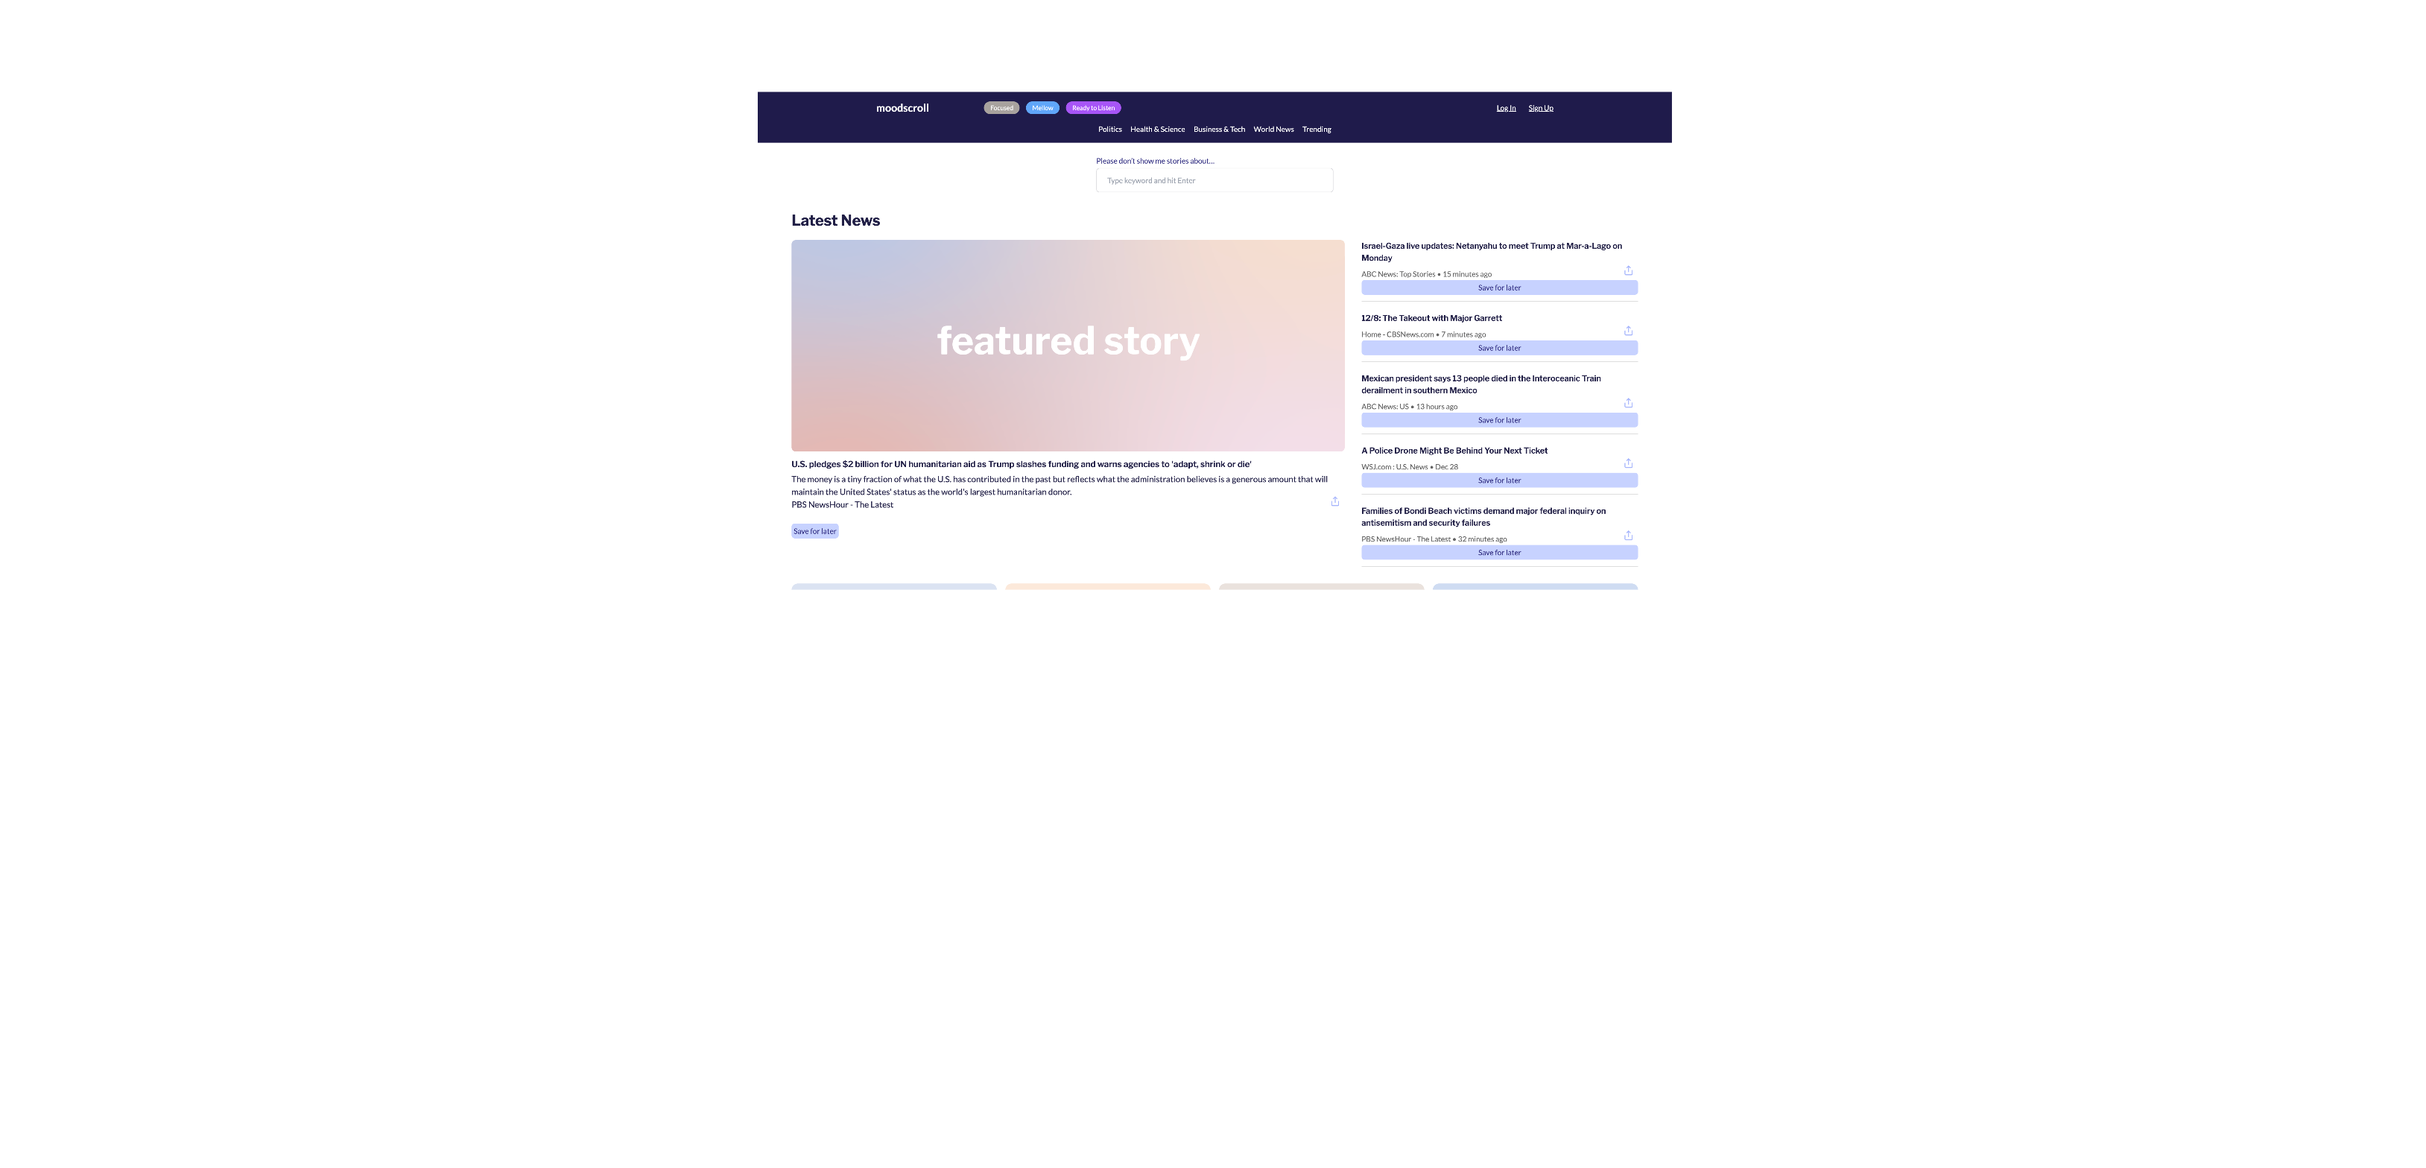
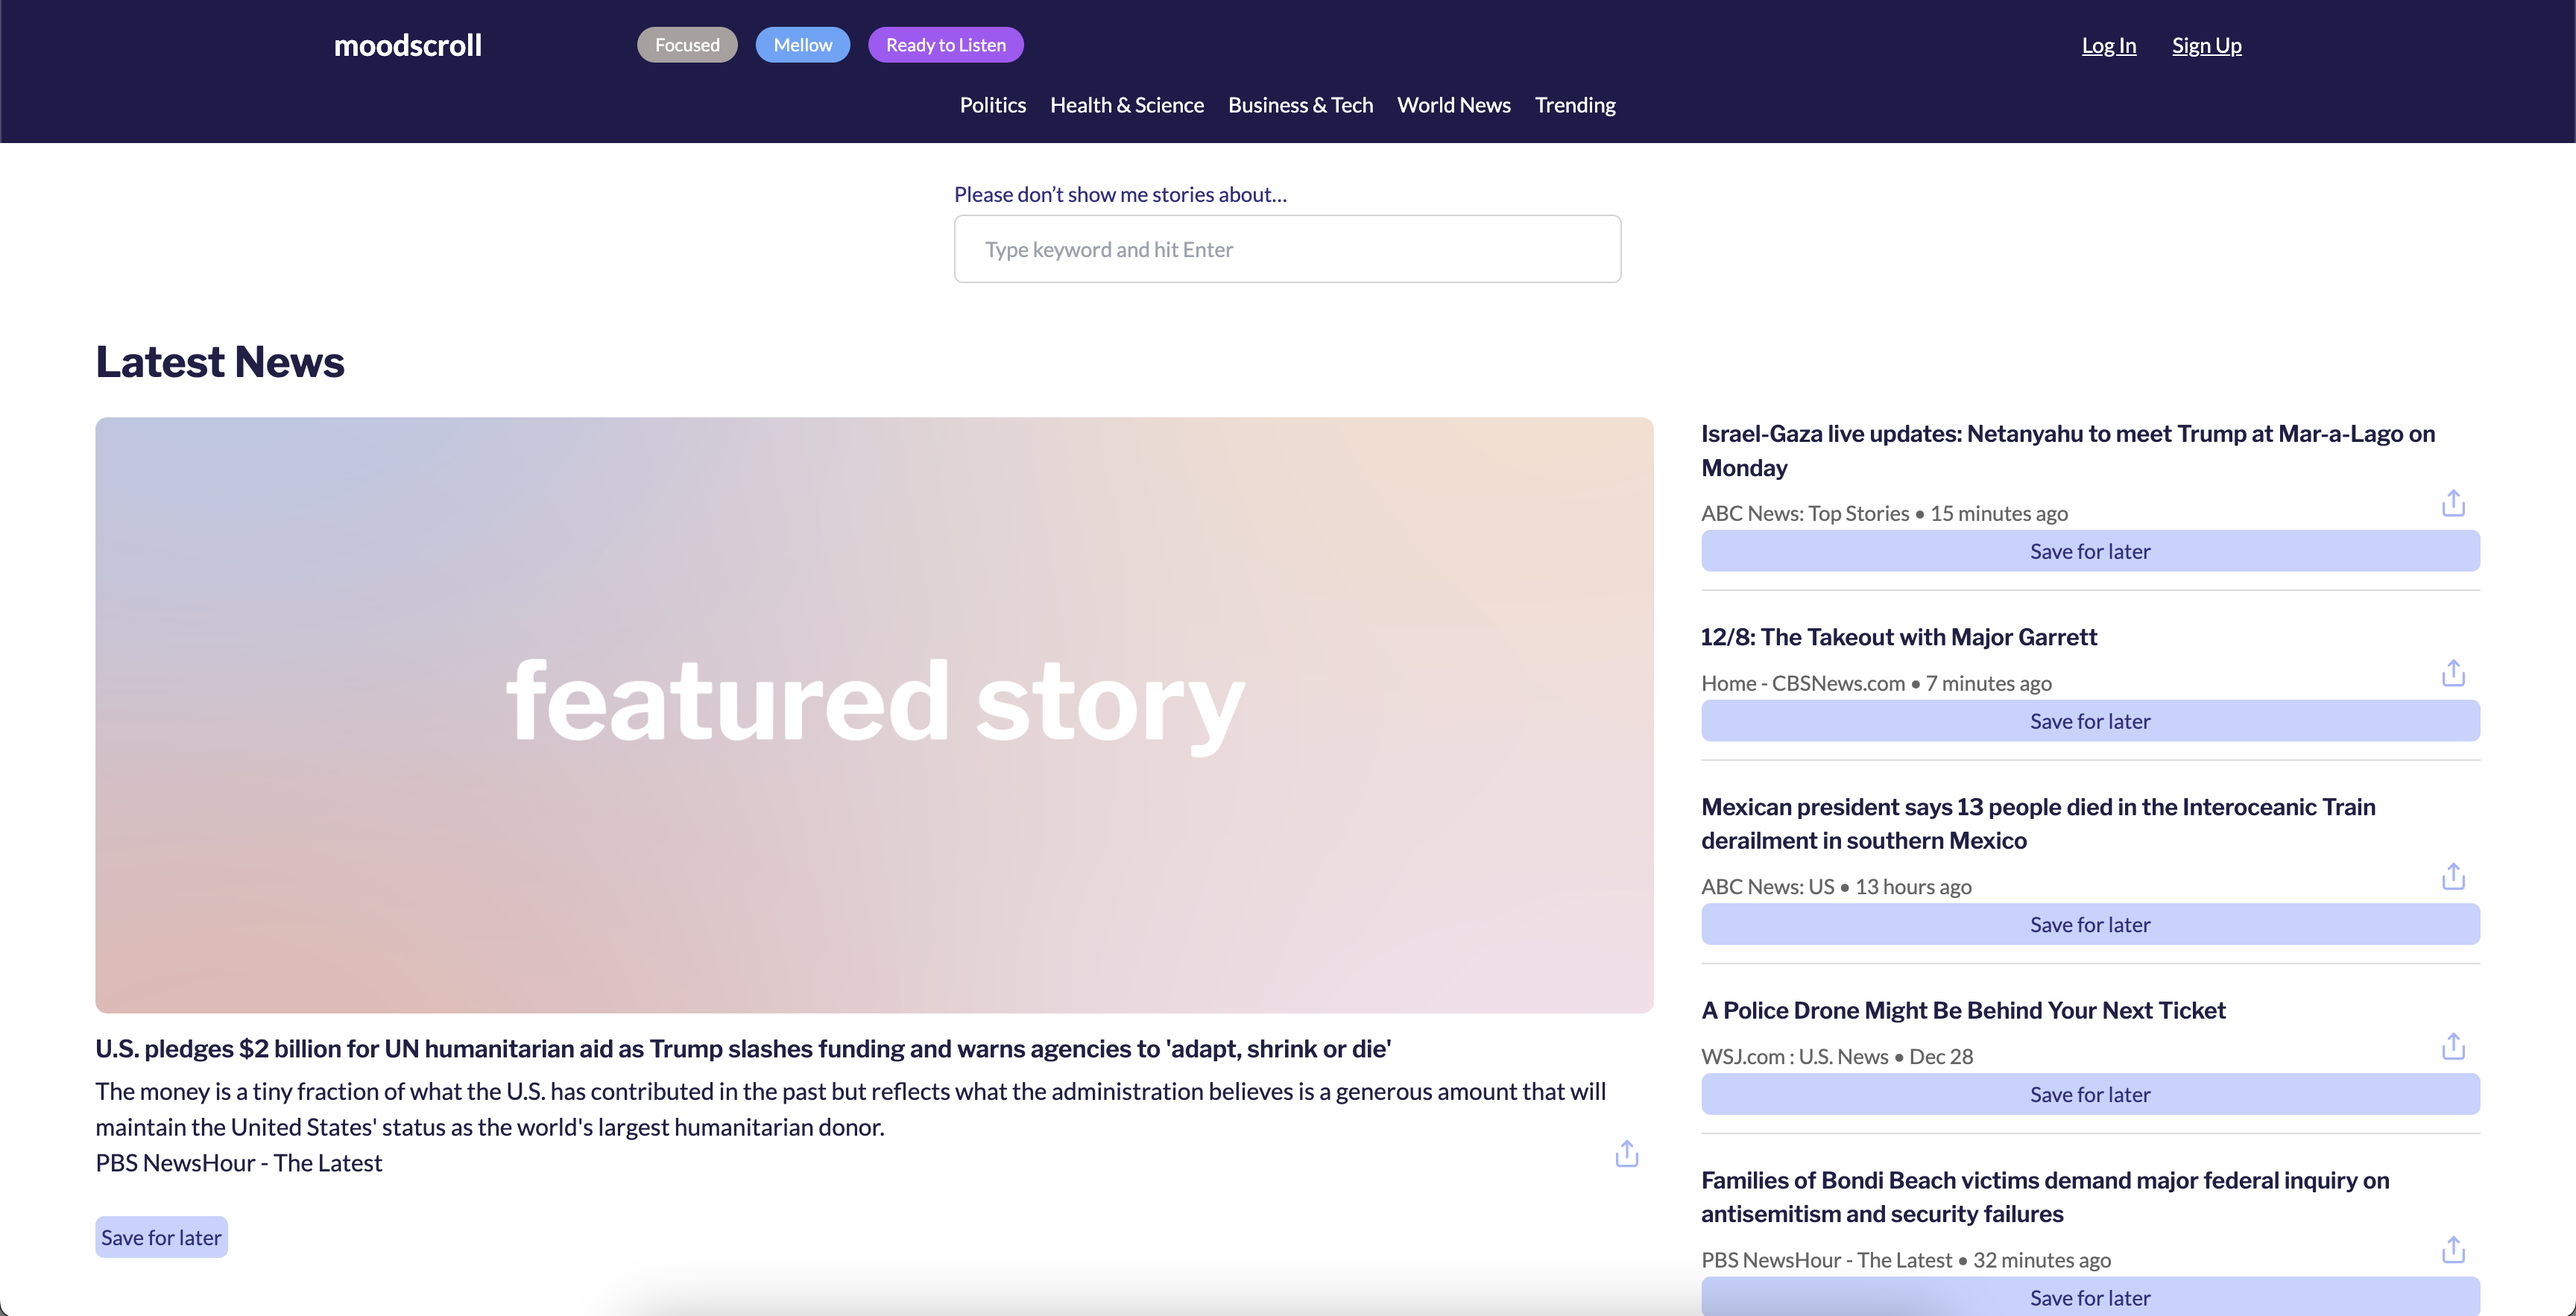
fixed moodscroll img

diff --git a/webdev.html b/webdev.html
@@ -37,7 +37,7 @@
         </div>
         <div class="webdev-main-container">
             <div class="site-container">
-                <a href-"https://www.moodscroll.co">
+                <a href="https://www.moodscroll.co">
                     <img src="/assets/moodscroll.png" class="site-screenshot" />
                 </a>
                 <p class="screenshot-caption">Moodscroll is a mood-based news platform I designed and built to offer a more intentional alternative to doomscrolling. Drawing on my background in digital media, I wanted to rethink how people engage with the news — not by avoiding it, but by giving users more control over how and when they consume it.
